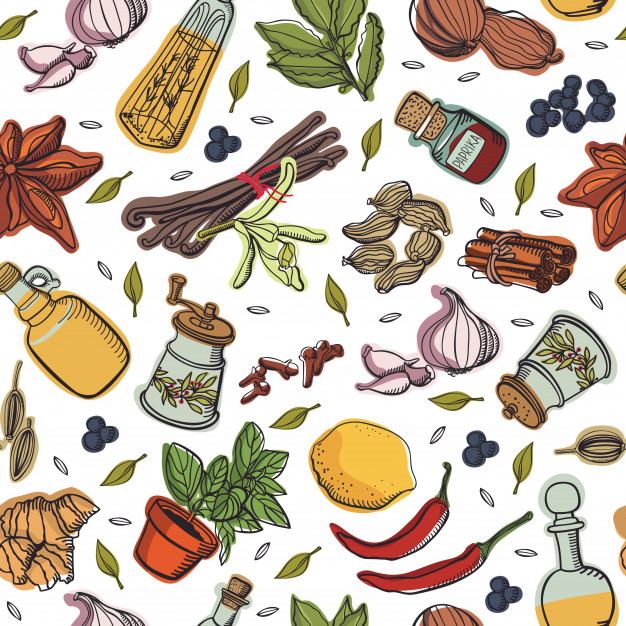
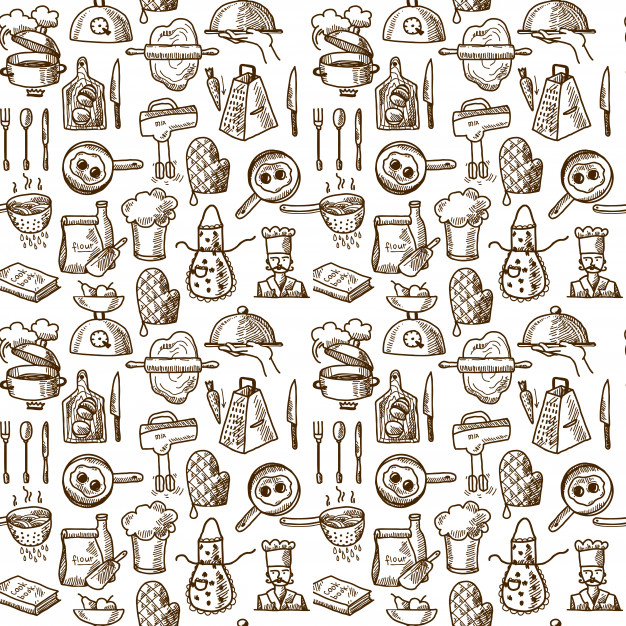
Alteração da imagem de fundo e do css

diff --git a/index.html b/index.html
@@ -1,5 +1,6 @@
 <!DOCTYPE html>
 <html lang="en">
+
 <head>
     <meta charset="UTF-8">
     <meta http-equiv="X-UA-Compatible" content="IE=edge">
@@ -7,46 +8,53 @@
     <title>Receitas da Vovó Maria</title>
     <link rel="stylesheet" href="css/style.css">
     <script src="https://ajax.googleapis.com/ajax/libs/jquery/3.6.0/jquery.min.js"></script>
-    <link rel="stylesheet" href="https://stackpath.bootstrapcdn.com/bootstrap/4.3.1/css/bootstrap.min.css" integrity="sha384-ggOyR0iXCbMQv3Xipma34MD+dH/1fQ784/j6cY/iJTQUOhcWr7x9JvoRxT2MZw1T" crossorigin="anonymous">
+    <link rel="stylesheet" href="https://stackpath.bootstrapcdn.com/bootstrap/4.3.1/css/bootstrap.min.css"
+        integrity="sha384-ggOyR0iXCbMQv3Xipma34MD+dH/1fQ784/j6cY/iJTQUOhcWr7x9JvoRxT2MZw1T" crossorigin="anonymous">
 </head>
-<body>
-    <div class="container">
-    <h1>Receitas da vovo</h1>
 
-    <div class="accordion">
-        <button id="btn1">Torta de Bolacha</button>
-        <div id="b1" class="box">
-            <div class="col-4">
-                <h2>Torta de Bolacha</h2>
-                <img src="https://t2.rg.ltmcdn.com/pt/images/4/5/2/img_torta_de_bolacha_com_flan_e_chocolate_4254_600.jpg" alt="">
-            </div>
-            <div class="col-8 box">
-                <div class="col-5">
-                    <h3>Ingredientes</h3>
-                    <ul>
-                        <li>2 copos leite 2 copos leite </li>
-                        <li>2 copos leite</li>
-                        <li>2 copos leite 2 copos leite</li>
-                        <li>2 copos leite</li>
-                        <li>2 copos leite</li>
-                        <li>2 copos leite</li>
-                        <li>2 copos leite</li>
-                    </ul>
+<body>
+    <header>
+        <h1>Receitas da Vovó Maria</h1>
+    </header>
+    <div class="container">
+        <nav>
+            <div class="accordion">
+                <button id="btn1">Torta de Bolacha</button>
+                <div id="b1" class="box">
+                    <div class="col-4">
+                        <h2>Torta de Bolacha</h2>
+                        <img src="https://t2.rg.ltmcdn.com/pt/images/4/5/2/img_torta_de_bolacha_com_flan_e_chocolate_4254_600.jpg"
+                            alt="">
+                    </div>
+                    <div class="col-8 box">
+                        <div class="col-5">
+                            <h3>Ingredientes</h3>
+                            <ul>
+                                <li>2 copos leite 2 copos leite </li>
+                                <li>2 copos leite</li>
+                                <li>2 copos leite 2 copos leite</li>
+                                <li>2 copos leite</li>
+                                <li>2 copos leite</li>
+                                <li>2 copos leite</li>
+                                <li>2 copos leite</li>
+                            </ul>
+                        </div>
+                        <div class="col-7">
+                            <h3>Modo de Preparo</h3>
+                            <ol>
+                                <li>Leve ao fogo aaaaaaaaaaaaaa aaaaaaaaaaaaaaaaaaaa</li>
+                                <li>Leve ao fogo aaaaaaaaaaaaaaa aaaaaaaaaaaaaaaaaaa</li>
+                                <li>Leve ao fogo aaaaaaaaaaaaaaaa aaaaaaaaaaaaaaaaaa</li>
+                                <li>Leve ao fogo aaaaaaaaaaaaaaaaaaaaaaaaaaaaaaaaaa</li>
+                                <li>Leve ao fogo aaaa aaaaaaaaaaaaaaaaaaaaa aaaaaaaaa</li>
+                            </ol>
+                        </div>
+                    </div>
                 </div>
-                <div class="col-7">
-                    <h3>Modo de Preparo</h3>
-                    <ol>
-                        <li>Leve ao fogo aaaaaaaaaaaaaa aaaaaaaaaaaaaaaaaaaa</li>
-                        <li>Leve ao fogo aaaaaaaaaaaaaaa aaaaaaaaaaaaaaaaaaa</li>
-                        <li>Leve ao fogo aaaaaaaaaaaaaaaa aaaaaaaaaaaaaaaaaa</li>
-                        <li>Leve ao fogo aaaaaaaaaaaaaaaaaaaaaaaaaaaaaaaaaa</li>
-                        <li>Leve ao fogo aaaa aaaaaaaaaaaaaaaaaaaaa aaaaaaaaa</li>
-                    </ol>
-                </div>
             </div>
-        </div>
-        </div>
     </div>
+    </nav>
 </body>
-    <script src="js/script.js"></script>
+<script src="js/script.js"></script>
+
 </html>

diff --git a/css/style.css b/css/style.css
@@ -1,31 +1,51 @@
+@import url(//db.onlinewebfonts.com/c/474c729bb9f706dac41385247d5dbc7c?family=Culinary);
+@font-face {font-family: "Culinary"; src: url("//db.onlinewebfonts.com/t/474c729bb9f706dac41385247d5dbc7c.eot");}
+
 body {
     background-image: url('../img/bg.jpg');
-    background-color: rgba(0, 0, 0, 0.13);
 }
 
 .box {
     padding: 20px;
     display: flex;
-    background-color: rgb(255, 255, 255);
+    background-color: #fefefe;
+}
+
+header {
+    background-color: #fefefe;
 }
 
 h1 {
-    color: black;
-    box-shadow: white;
+    color: rgb(129, 119, 119);
+    padding: 20px 0px 10px 30px;
+    margin: 0px!important;
+    font-family: "Culinary";
+    font-weight: bold;
+    font-size: 50px!important;
 }
 
 h2, h3{
     text-align: center;
+    font-family: "Culinary";
 }
 
 button {
-    background: url('https://t2.rg.ltmcdn.com/pt/images/4/5/2/img_torta_de_bolacha_com_flan_e_chocolate_4254_600.jpg');
-    color: white;
+    border: none!important;
+    outline: none!important;
+    background: url('../img/pavlova.jpg');
+    background-position-y: center;
+    background-repeat: no-repeat;
+    background-size: cover;
+    color: black;
+    font-weight: bolder;
+    font-size: 40px !important;
     text-align: left;
     padding-left: 30px;
     height: 100px;
-    
+    text-shadow: 3px 3px 2px white, 4px 4px 2px white, 1px 1px 1px white;
+    font-family: "Culinary"!important;
 }
+
 
 .accordion {
     display: flex;
